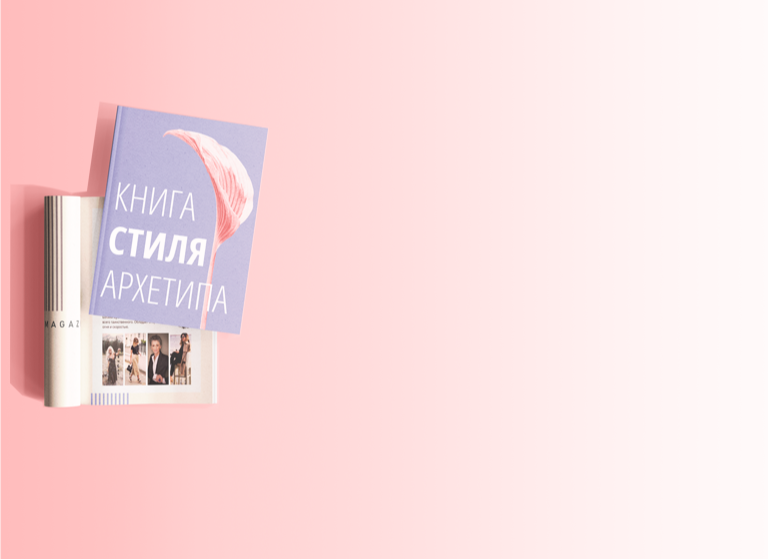
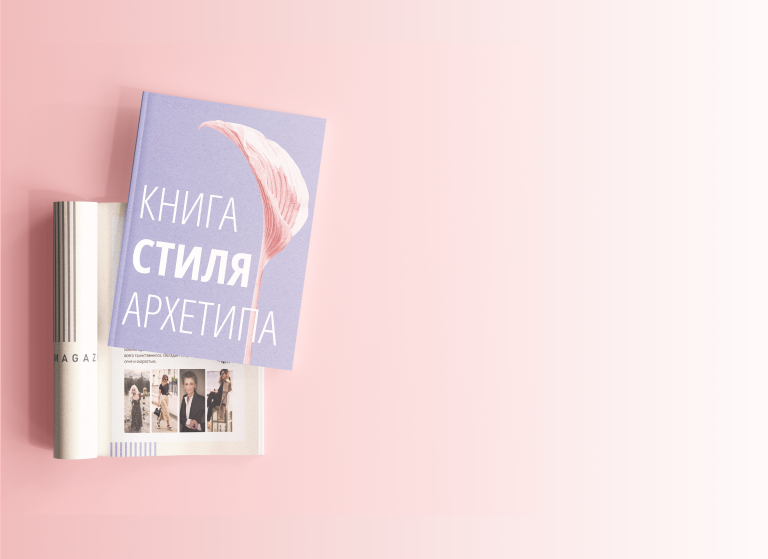
Адаптив для лукбуков

Changed region(s): [[0.0, 0.1521, 0.4375, 0.8515]]

diff --git a/assets/styles/style.css b/assets/styles/style.css
@@ -1351,20 +1351,20 @@ textarea {
   background-repeat: no-repeat;
   background-size: cover;
   width: 1440px;
-  height: 1060px;
+  height: 912px;
 }
 
 .lookbook-section__wrappers {
   display: flex;
   flex-direction: row;
   width: 1254px;
-  height: 1060px;
+  height: 912px;
   margin: 0 auto;
 }
 
 .lookbook-section__wrapper_left {
   width: 583px;
-  height: 1060px;
+  height: 912px;
 }
 
 .lookbook-section__wrapper_right {
@@ -1372,22 +1372,23 @@ textarea {
   flex-direction: column;
   align-items: center;
   width: 675px;
-  height: 1060px;
+  height: 912px;
 }
 
 .lookbook-section__title {
-  width: 340px;
-  height: 102px;
-  line-height: 150%;
+  position: relative;
+  width: 620px;
+  height: 34px;
   align-self: center;
-  margin: 97px 0 83px;
+  margin-top: 90px;
+  margin-bottom: 53px;
   text-align: center;
 }
 
 .lookbook-section__lookbook-text {
   position: relative;
   font-size: 24px;
-  line-height: 150%;
+  line-height: 29px;
   letter-spacing: 0.06em;
   width: 677px;
   height: 261px;
@@ -1399,10 +1400,6 @@ textarea {
   margin-bottom: 1em;
 }
 
-.lookbook-section__paragraph:last-child {
-  margin-bottom: 0em;
-}
-
 .lookbook-section__present-block {
   display: flex;
   flex-direction: column;
@@ -1411,7 +1408,6 @@ textarea {
   gap: 23px;
   width: 675px;
   height: 231px;
-  margin-top: 50px;
 }
 
 .lookbook-section__row-1, .lookbook-section__row-2, .lookbook-section__row-3 {
@@ -1439,6 +1435,11 @@ textarea {
 .lookbook-section__button {
   margin-top: 46px;
   width: 660px;
+}
+
+.present-block {
+  display: flex;
+  flex-direction: column;
 }
 
 @media screen and (min-width: 768px) and (max-width: 1024px) {
@@ -1811,6 +1812,63 @@ textarea {
   margin-bottom: 91px;
 }
 
+@media screen and (min-width: 768px) and (max-width: 1024px) {
+  .book-section {
+    background-image: url("/assets/images/Background_10-block_tablet.png");
+    width: 768px;
+    height: 571px;
+  }
+  .book-section__wrappers {
+    width: 653px;
+    height: 571px;
+  }
+  .book-section__wrapper_left {
+    width: 370px;
+    height: 571px;
+  }
+  .book-section__wrapper_right {
+    width: 283px;
+    height: 571px;
+  }
+  .book-section__title {
+    font-size: 24px;
+    width: 247px;
+    height: 56px;
+    line-height: 130%;
+    padding-top: 51px;
+  }
+  .book-section__book-text {
+    font-size: 11px;
+    width: 370px;
+    height: 200px;
+    margin-top: 36px;
+  }
+  .book-section__present-block {
+    border: 4px solid #FAACA8;
+    gap: 13px;
+    width: 370px;
+    height: 130px;
+    margin-top: 34px;
+  }
+  .book-section__subtitle {
+    margin: 18px auto 0;
+  }
+  .book-section__point_violet {
+    width: 15px;
+    height: 15px;
+    margin-left: 28px;
+    margin-right: 31px;
+  }
+  .book-section__box-text {
+    font-size: 11px;
+    line-height: 150%;
+    width: 265px;
+  }
+  .book-section__button {
+    width: 166px;
+    margin-bottom: 56px;
+  }
+}
 .price {
   background: linear-gradient(180deg, rgba(199, 189, 255, 0.15) 0%, rgba(155, 137, 255, 0) 10.03%);
   width: 1440px;

diff --git a/assets/sass/lookbook-section/lookbook-section.scss b/assets/sass/lookbook-section/lookbook-section.scss
@@ -3,20 +3,20 @@
     background-repeat:no-repeat;
     background-size: cover;
     width: 1440px;
-    height: 1060px;
+    height: 912px;
 }
 
 .lookbook-section__wrappers {
     display: flex;
     flex-direction: row;
     width: 1254px;
-    height: 1060px;
+    height: 912px;
     margin: 0 auto;
 }
 
 .lookbook-section__wrapper_left {
     width: 583px;
-    height: 1060px;
+    height: 912px;
 }
 
 .lookbook-section__wrapper_right {
@@ -24,25 +24,24 @@
     flex-direction: column;
     align-items: center;
     width: 675px;
-    height: 1060px;
+    height: 912px;
 }
 
 
 .lookbook-section__title {
-    width: 340px;
-    height: 102px;
-    line-height: 150%;
-    align-self: center;
-    margin: 97px 0 83px;
-    // margin-top: 90px;
-    // margin-bottom: 53px;
+    position: relative;
+    width: 620px;
+    height: 34px;
+    align-self:center;
+    margin-top: 90px;
+    margin-bottom: 53px;
     text-align: center;
 }
 
 .lookbook-section__lookbook-text {
     position: relative;
     font-size: 24px;
-    line-height: 150%;
+    line-height: 29px;
     letter-spacing: 0.06em;
     width: 677px;
     height: 261px;
@@ -52,10 +51,6 @@
     text-indent: 1.5em;
     margin-bottom: 1em;
 }
-.lookbook-section__paragraph:last-child {
-    margin-bottom: 0em;
-}
-
 .lookbook-section__present-block {
     display: flex;
     flex-direction: column;
@@ -64,13 +59,14 @@
     gap: 23px;
     width: 675px;
     height: 231px;
-    margin-top: 50px;
 }
 .lookbook-section__row-1, .lookbook-section__row-2, .lookbook-section__row-3 {
     display: flex;
     flex-direction: row;
 }
-
+// .lookbook-section__row-2 {
+//     margin-bottom: 26px;
+// }
 
 .lookbook-section__subtitle {
     margin: 30px auto 0;
@@ -94,7 +90,10 @@
 }
 
 
-
+.present-block {
+    display: flex;
+    flex-direction: column;
+}
 
     // АДАПТИВ TABLET (ПЛАНШЕТ)
 

diff --git a/assets/sass/book-section/book-section.scss b/assets/sass/book-section/book-section.scss
@@ -102,5 +102,71 @@
     // АДАПТИВ TABLET (ПЛАНШЕТ)
 
     @media screen and (min-width: 768px) and (max-width: 1024px){
-
+        .book-section {
+            background-image:url("/assets/images/Background_10-block_tablet.png");
+                        width: 768px;
+            height: 571px;
+        }
+        
+        .book-section__wrappers {
+            width: 653px;
+            height: 571px;
+            
+        }
+        
+        .book-section__wrapper_left {
+            width: 370px;
+            height: 571px;
+        }
+        
+        .book-section__wrapper_right {
+            width: 283px;
+            height: 571px;
+        }
+        
+        
+        .book-section__title {
+            font-size: 24px;
+            width: 247px;
+            height: 56px;
+            line-height: 130%;
+            padding-top: 51px;
+        }
+        
+        .book-section__book-text {
+            font-size: 11px;
+            width: 370px;
+            height: 200px;
+            margin-top: 36px;
+        }
+        
+        .book-section__present-block {
+            border: 4px solid #FAACA8;
+            gap: 13px;
+            width: 370px;
+            height: 130px;
+            margin-top: 34px;
+        }
+        
+        
+        .book-section__subtitle {
+            margin: 18px auto 0;
+        }
+        
+        .book-section__point_violet {
+            width: 15px;
+            height: 15px;
+            margin-left: 28px;
+            margin-right: 31px;
+        }
+        .book-section__box-text {
+            font-size: 11px;
+            line-height: 150%;
+            width: 265px;
+        }
+        .book-section__button {
+            width: 166px;
+            margin-bottom: 56px;
+        }
     }
+
